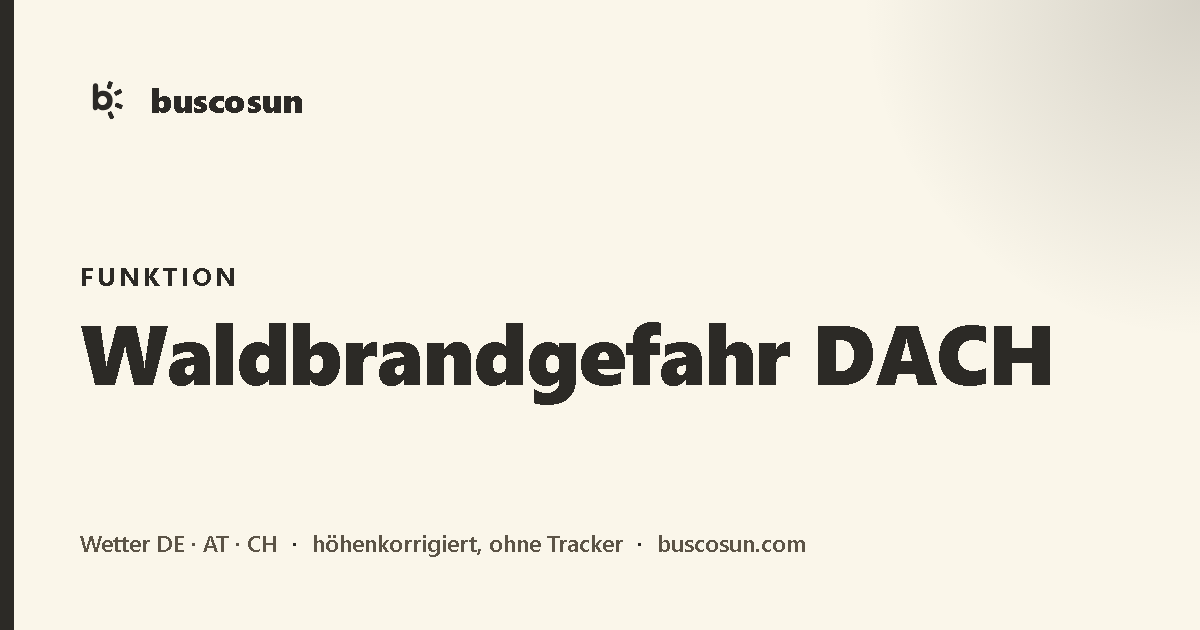
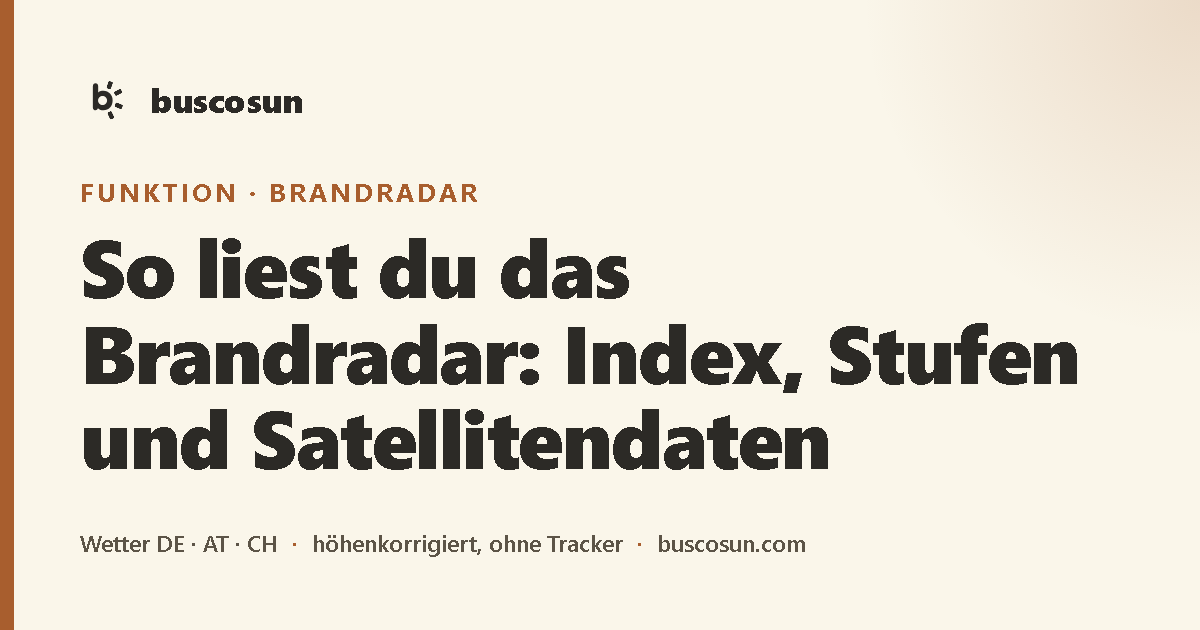
feat(seo): separate title and H1 of /waldbrand and /funktionen/waldbrandgefahr/, link from place pages
/waldbrand stays the main page; the function page explains how to read it. The
shell names the DWD index as the official source.

diff --git a/src/seo/subRouteTexts.ts b/src/seo/subRouteTexts.ts
@@ -295,6 +295,16 @@ export const SUB_ROUTE_TEXTS: Readonly<Record<string, SeoText>> = { ...LAYER_ENT
  */
 export type RouteText = Pick<SeoText, 'body' | 'facts' | 'official' | 'links'>;
 const ROUTE_TEXTS: Readonly<Record<string, RouteText>> = {
+  '/waldbrand': {
+    body: [],
+    facts: [],
+    official: { text: 'Das Brandradar ist kein amtliches Warnprodukt. Die amtliche Stufe für Deutschland nennt der', label: 'Waldbrandgefahrenindex des DWD', href: 'https://www.dwd.de/DE/leistungen/waldbrandgef/waldbrandgef.html' },
+    links: [
+      { label: 'So liest du das Brandradar', href: '/funktionen/waldbrandgefahr/' },
+      { label: 'Waldbrandstufen in DE, AT und CH erklärt', href: '/wissen/waldbrandwarnstufen-de-at-ch/' },
+      { label: 'Wie die Detektion rechnet', href: '/methodik/brandradar-detektion-und-brandnarben/' },
+    ],
+  },
   '/seewetter': {
     body: [
       'Die Ansicht beantwortet drei Fragen für einen Spot an der deutschen Küste. Wie weht es, mit welchen Böen? Wie hoch läuft die See, getrennt nach Windsee und Dünung? Wie steht das Wasser am nächsten Pegel? Das Stundenband zeigt die kommenden Stunden, die Karte das Seegangsfeld, und jeder Spot hat eine eigene Adresse, etwa St. Peter-Ording, Laboe oder Warnemünde.',
